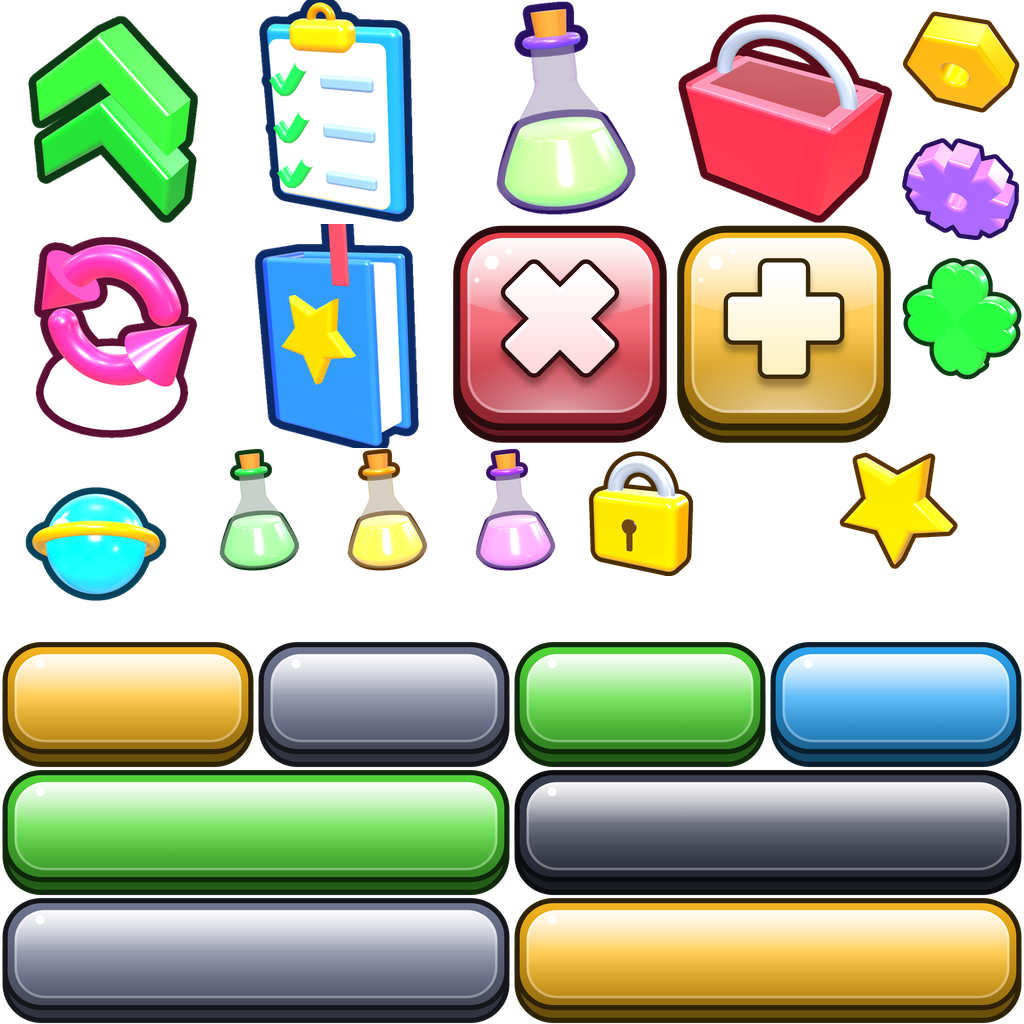
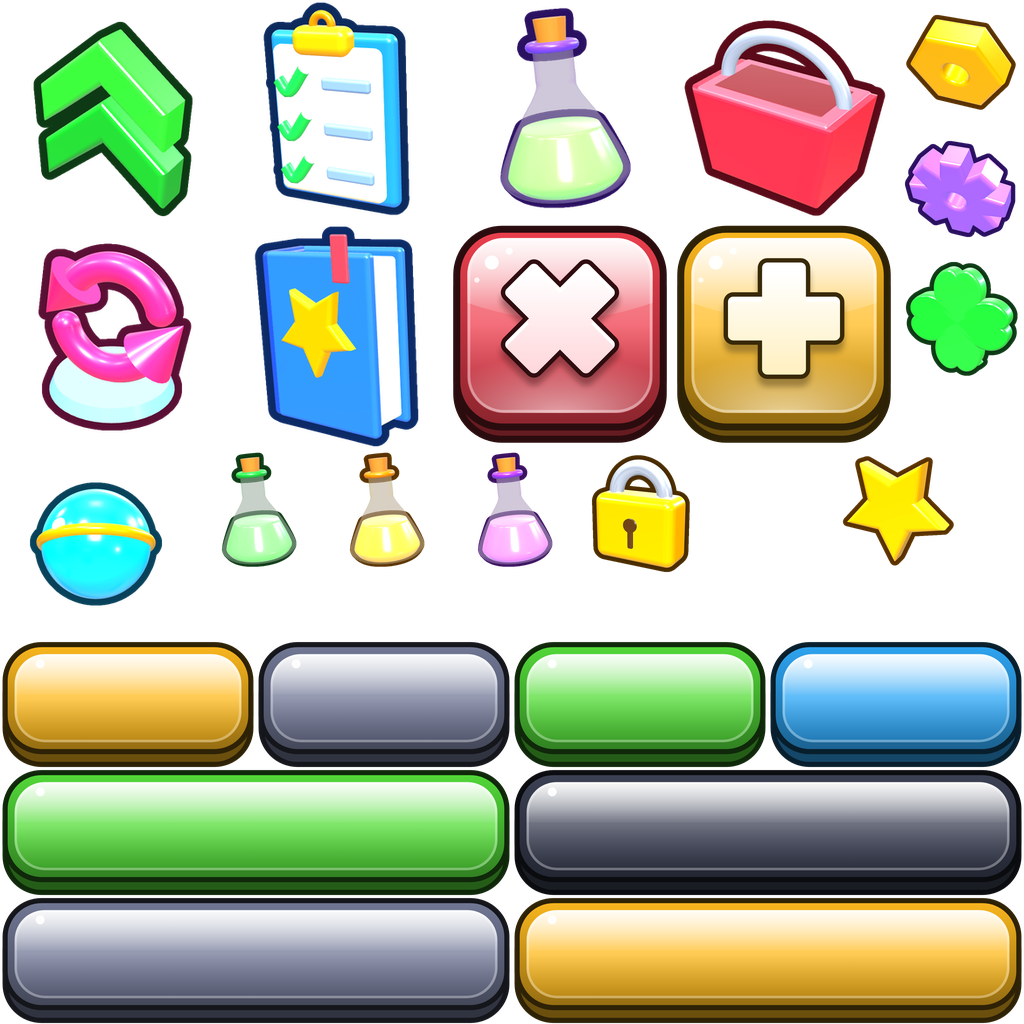
Fix bookmark clipping, add README
Claude-Session: https://claude.ai/code/session_017gRZj1D7xuyxdpJXhPYWcz

diff --git a/tools/render3d/icons.html b/tools/render3d/icons.html
@@ -95,7 +95,7 @@ MODELS.shop = () => {
 
 MODELS.rebirth = () => {
   const g = new THREE.Group();
-  const base = mesh(new THREE.CylinderGeometry(0.92, 1.0, 0.2, 48), mat(0xd9ecff, { roughness: 0.4 }), 0, -0.66, 0);
+  const base = mesh(new THREE.CylinderGeometry(0.9, 0.98, 0.2, 48), mat(0x8ec8ff, { roughness: 0.4 }), 0, -0.66, 0);
   g.add(base);
   const ring = new THREE.Group();
   const arrow = (a0, a1) => {
@@ -124,15 +124,15 @@ MODELS.index = () => {
   g.add(rbox(1.22, 1.66, 0.42, 0.04, mat(0xfff6dc, { roughness: 0.5 }), 0.02, 0, 0));
   const star = new THREE.Shape(); for (let i = 0; i < 10; i++) { const r = i % 2 ? 0.2 : 0.42, a = -Math.PI / 2 + i * Math.PI / 5; i ? star.lineTo(Math.cos(a) * r, Math.sin(a) * r) : star.moveTo(Math.cos(a) * r, Math.sin(a) * r); } star.closePath();
   g.add(mesh(ext(star, 0.06, 0.05), mat(0xffc21a, { metalness: 0.3 }), 0.02, 0.1, 0.36));
-  g.add(rbox(0.2, 0.62, 0.04, 0.02, mat(0xff4757), 0.36, 0.98, 0.34));
+  g.add(rbox(0.2, 0.46, 0.04, 0.02, mat(0xff4757), 0.36, 0.86, 0.34));
   g.rotation.set(0.28, -0.7, 0.08); return g;
 };
 
 MODELS.drop = () => {
   const g = new THREE.Group();
-  g.add(mesh(new THREE.SphereGeometry(1, 64, 64), mat(0x1fc8ff, { roughness: 0.2, emissive: 0x0a7fa6, emissiveIntensity: 0.3 })));
+  g.add(mesh(new THREE.SphereGeometry(1.08, 64, 64), mat(0x1fc8ff, { roughness: 0.2, emissive: 0x0a7fa6, emissiveIntensity: 0.3 })));
   g.add(mesh(new THREE.SphereGeometry(0.18, 20, 20), mat(0xffffff, { roughness: 0.1 }), -0.36, 0.5, 0.78));
-  const ring = mesh(new THREE.TorusGeometry(1.14, 0.13, 20, 80), mat(0xffc21a, { metalness: 0.35, roughness: 0.25 }));
+  const ring = mesh(new THREE.TorusGeometry(1.06, 0.11, 20, 80), mat(0xffc21a, { metalness: 0.35, roughness: 0.25 }));
   ring.rotation.set(1.05, 0.2, 0.55); g.add(ring);
   g.rotation.set(0.3, -0.4, 0); return g;
 };
@@ -145,9 +145,9 @@ MODELS.nut = () => {
 };
 
 MODELS.gear = () => {
-  const s = new THREE.Shape(); const N = 9;
+  const s = new THREE.Shape(); const N = 8;
   for (let i = 0; i < N; i++) { const a = i * 2 * Math.PI / N, w = Math.PI / N;
-    const pts = [[0.7, a - w * 0.95], [1.0, a - w * 0.42], [1.0, a + w * 0.42], [0.7, a + w * 0.95]];
+    const pts = [[0.62, a - w * 0.9], [1.0, a - w * 0.38], [1.0, a + w * 0.38], [0.62, a + w * 0.9]];
     pts.forEach(([r, t], k) => { const x = Math.cos(t) * r, y = Math.sin(t) * r; (i === 0 && k === 0) ? s.moveTo(x, y) : s.lineTo(x, y); }); }
   s.closePath(); const h = new THREE.Path(); h.absarc(0, 0, 0.32, 0, Math.PI * 2, true); s.holes.push(h);
   const g = new THREE.Group(); g.add(mesh(ext(s, 0.42, 0.09), mat(0xa468ff, { metalness: 0.2 })));

diff --git a/tools/make_ui_atlas.py b/tools/make_ui_atlas.py
@@ -306,7 +306,7 @@ def main():
         br.close()
     sys.path.insert(0, os.path.dirname(__file__))
     import icons3d
-    ims = icons3d.render({n: v[3] for n, v in ICONS3D.items()}, 256, fill=0.93)
+    ims = icons3d.render({n: v[3] for n, v in ICONS3D.items()}, 256, fill=0.87)
     for n, (x, y, sz, _) in ICONS3D.items():
         atlas.alpha_composite(ims[n].resize((sz, sz), Image.LANCZOS), (x, y))
     atlas.save(os.path.join(OUT, "atlas.png"), optimize=True)

diff --git a/README.md b/README.md
@@ -1,0 +1,15 @@
+# Drop a Bot – Roblox
+
+Ein Plinko-Idle-Spiel: Kerne fallen durch ein Glücksbrett, aus Bauteilen entstehen Bots (Verteidiger und Arbeiter).
+
+## Ordner
+
+| Ordner | Inhalt |
+|---|---|
+| `src/StarterPlayerScripts/DropABotUI.client.lua` | Komplettes HUD und alle Menüs (nur Optik, mit Demo-Modus und API) |
+| `src/ServerScriptService/WorldLook.server.lua` | Licht, Himmel, Farben und Deko der Welt |
+| `assets/ui/atlas.png` | Bilddatei mit allen Buttons, Karten und 3D-Icons (einmal in Studio hochladen) |
+| `tools/` | Zeichnet und rendert die Bilder neu (`make_ui_atlas.py`, `icons3d.py`, `render3d/`) |
+| `DESIGN.md` | Stil, Farben, Einbauen, Anbindung ans Spiel |
+
+Einbauen und Anbindung stehen in `DESIGN.md`.
